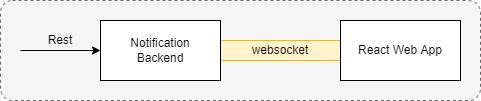
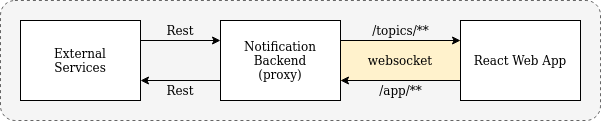
updated with websocket logic

diff --git a/spring-microservice/src/main/kotlin/com/example/notification/controller/NotificationController.kt b/spring-microservice/src/main/kotlin/com/example/notification/controller/NotificationController.kt
@@ -1,0 +1,29 @@
+package com.example.notification.controller
+
+import com.example.notification.model.ApiMessage
+import com.example.notification.model.ApiTopic
+import com.example.notification.model.AppTopic
+import com.example.notification.model.TopicResponse
+import org.springframework.http.HttpStatus
+import org.springframework.http.ResponseEntity
+import org.springframework.messaging.simp.SimpMessagingTemplate
+import org.springframework.web.bind.annotation.*
+
+/**
+ * Controller for handling external service notification to frontend using backend as a proxy
+ **/
+
+@RestController
+@RequestMapping("/api/notification")
+class NotificationController(private val template: SimpMessagingTemplate) {
+    @GetMapping("/topics")
+    fun getAllTopics(): ResponseEntity<TopicResponse> {
+        val response = TopicResponse(apiTopics = ApiTopic.getTopics(), appTopics = AppTopic.getTopics())
+        return ResponseEntity(response, HttpStatus.OK)
+    }
+
+    @PostMapping
+    fun newTopicMessage(@RequestBody message: ApiMessage) {
+        template.convertAndSend("/topic/${message.topic.label}", message.payload)
+    }
+}

diff --git a/spring-microservice/src/main/kotlin/com/example/notification/config/WebSocketConfig.kt b/spring-microservice/src/main/kotlin/com/example/notification/config/WebSocketConfig.kt
@@ -1,0 +1,20 @@
+package com.example.notification.config
+
+import org.springframework.context.annotation.Configuration
+import org.springframework.messaging.simp.config.MessageBrokerRegistry
+import org.springframework.web.socket.config.annotation.EnableWebSocketMessageBroker
+import org.springframework.web.socket.config.annotation.StompEndpointRegistry
+import org.springframework.web.socket.config.annotation.WebSocketMessageBrokerConfigurer
+
+@Configuration
+@EnableWebSocketMessageBroker
+class WebSocketConfig: WebSocketMessageBrokerConfigurer {
+    override fun registerStompEndpoints(registry: StompEndpointRegistry) {
+        registry.addEndpoint("/ws").setAllowedOrigins("*")    // websocket endpoint
+    }
+
+    override fun configureMessageBroker(registry: MessageBrokerRegistry) {
+        registry.enableSimpleBroker("/topic")       // server -> client (subscriber)
+        registry.setApplicationDestinationPrefixes("/app")          // client -> server
+    }
+}

diff --git a/spring-microservice/src/main/kotlin/com/example/notification/config/WebSecurityConfig.kt b/spring-microservice/src/main/kotlin/com/example/notification/config/WebSecurityConfig.kt
@@ -1,0 +1,16 @@
+package com.example.notification.config
+
+import org.springframework.context.annotation.Configuration
+import org.springframework.security.config.annotation.web.builders.HttpSecurity
+import org.springframework.security.config.annotation.web.configuration.EnableWebSecurity
+import org.springframework.security.config.annotation.web.configuration.WebSecurityConfigurerAdapter
+
+@Configuration
+@EnableWebSecurity
+class WebSecurityConfig: WebSecurityConfigurerAdapter() {
+    override fun configure(http: HttpSecurity) {
+        http.cors()
+        http.csrf().disable()
+        http.authorizeRequests().anyRequest().permitAll()
+    }
+}

diff --git a/spring-microservice/src/main/kotlin/com/example/notification/model/AppTopic.kt b/spring-microservice/src/main/kotlin/com/example/notification/model/AppTopic.kt
@@ -1,0 +1,15 @@
+package com.example.notification.model
+
+/*
+ * Topics from Frontend to Backend
+ */
+
+enum class AppTopic(val label: String, val endpoint: String? = "") {
+    NA("not applicable");
+
+    companion object {
+        fun getTopics(): List<String> {
+            return ApiTopic.values().map { it.name }
+        }
+    }
+}

diff --git a/spring-microservice/src/main/kotlin/com/example/notification/model/ApiTopic.kt b/spring-microservice/src/main/kotlin/com/example/notification/model/ApiTopic.kt
@@ -1,0 +1,15 @@
+package com.example.notification.model
+
+/*
+ * Topics from External Service to Backend to Frontend
+ */
+
+enum class ApiTopic(val label: String) {
+    TOAST_MESSAGE("toast");
+
+    companion object {
+        fun getTopics(): List<String> {
+            return values().map { it.name }
+        }
+    }
+}

diff --git a/spring-microservice/src/main/kotlin/com/example/notification/controller/AppController.kt b/spring-microservice/src/main/kotlin/com/example/notification/controller/AppController.kt
@@ -1,0 +1,12 @@
+package com.example.notification.controller
+
+import org.springframework.stereotype.Controller
+
+/**
+ * Controller for handling websocket communication from Frontend to Backend
+ **/
+
+@Controller
+class AppController {
+
+}

diff --git a/react-app/src/index.tsx b/react-app/src/index.tsx
@@ -1,7 +1,7 @@
 import React from 'react';
 import ReactDOM from 'react-dom';
 import './index.css';
-import App from './App';
+import App from './components/App';
 import reportWebVitals from './reportWebVitals';
 
 ReactDOM.render(

diff --git a/spring-microservice/src/main/kotlin/com/example/notification/model/TopicResponse.kt b/spring-microservice/src/main/kotlin/com/example/notification/model/TopicResponse.kt
@@ -1,0 +1,6 @@
+package com.example.notification.model
+
+data class TopicResponse(
+        val apiTopics: List<String>,
+        val appTopics: List<String>
+)

diff --git a/react-app/src/components/App.tsx b/react-app/src/components/App.tsx
@@ -1,5 +1,5 @@
 import React from 'react';
-import logo from './logo.svg';
+import logo from '../logo.svg';
 import './App.css';
 
 function App() {

diff --git a/spring-microservice/src/main/kotlin/com/example/notification/model/ApiMessage.kt b/spring-microservice/src/main/kotlin/com/example/notification/model/ApiMessage.kt
@@ -1,0 +1,6 @@
+package com.example.notification.model
+
+data class ApiMessage (
+        val topic: ApiTopic,
+        val payload: Any
+)
